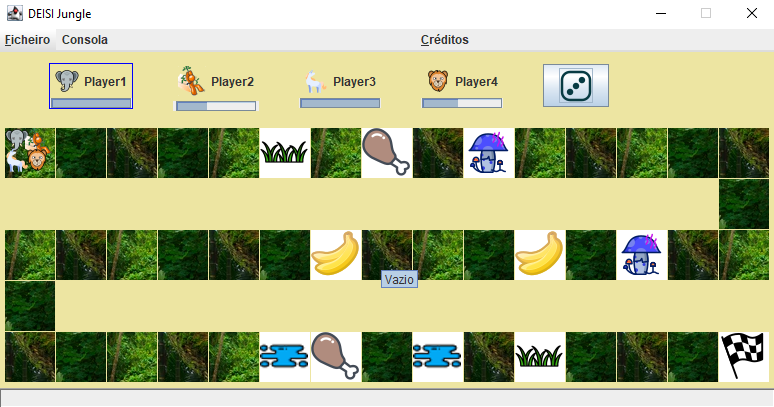
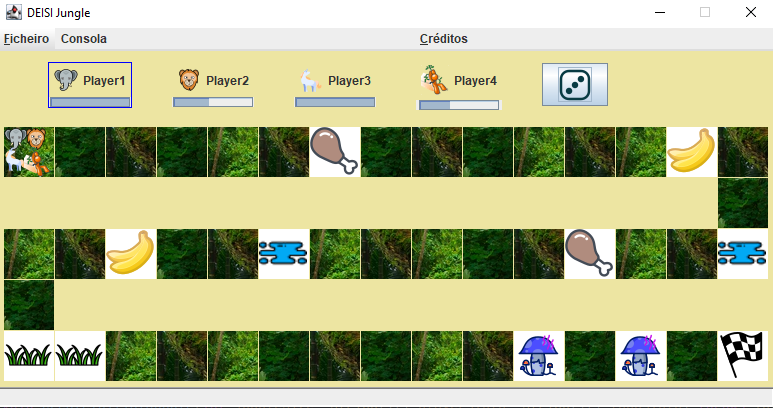
Fix updateEnergyMitologic

diff --git a/src/pt/ulusofona/lp2/deisiJungle/GameManager.java b/src/pt/ulusofona/lp2/deisiJungle/GameManager.java
@@ -289,14 +289,20 @@ public class GameManager implements Serializable {
             for (int i = 0; i < this.foods.size(); i++) {
                 Food food = this.foods.get(i);
                 if (Integer.parseInt(food.getSquareNr()) == currentSquare) {
-                    if ((!currentPlayer.getSpecie().getType().canGetMeatStatus() && food.getId().equals("c"))) { //Change here
-                    } else {
-                        food.eatFood(currentPlayer.getSpecie(),this.roundNr);
-                        return new MovementResult(MovementResultCode.CAUGHT_FOOD, "Apanhou " + food.getName());
+                    if(!currentPlayer.getSpecie().getType().getName().equals("M")){
+                        if ((!currentPlayer.getSpecie().getType().canGetMeatStatus() && food.getId().equals("c"))) { //Change here
+                        } else {
+                            food.eatFood(currentPlayer.getSpecie(),this.roundNr);
+                            return new MovementResult(MovementResultCode.CAUGHT_FOOD, "Apanhou " + food.getName());
+                        }
                     }
                 }
             }
-        } return new MovementResult(MovementResultCode.VALID_MOVEMENT, null);
+        }
+        if(currentPlayer.getSpecie().getType().getName().equals("M")){
+            currentPlayer.getSpecie().getEnergy().updateMovementEnergyMitologic();
+        }
+        return new MovementResult(MovementResultCode.VALID_MOVEMENT, null);
     }
 
     public String[] getWinnerInfo() {

diff --git a/src/pt/ulusofona/lp2/deisiJungle/Energy.java b/src/pt/ulusofona/lp2/deisiJungle/Energy.java
@@ -45,4 +45,8 @@ public class Energy implements Serializable {
         if (energy > 200) { actual = "200"; }
         if (energy < 0) { actual = "0"; }
     }
+
+    void updateMovementEnergyMitologic(){
+        actual = String.valueOf(Integer.parseInt(actual) + 2);
+    }
 }

diff --git a/README.md b/README.md
@@ -23,7 +23,7 @@ competir para determinar qual o melhor atleta.
 
 Com a inspiração de animais numa selva, foi decidido colocar fundos com esse tema, de forma a tornar mais "realista".
 
-![](board2.png?raw=true "Board Customisation")
+![](board3.png?raw=true "Board Customisation")
 
 ---
 ### [PT] - Escolha de Modelação de Classes
